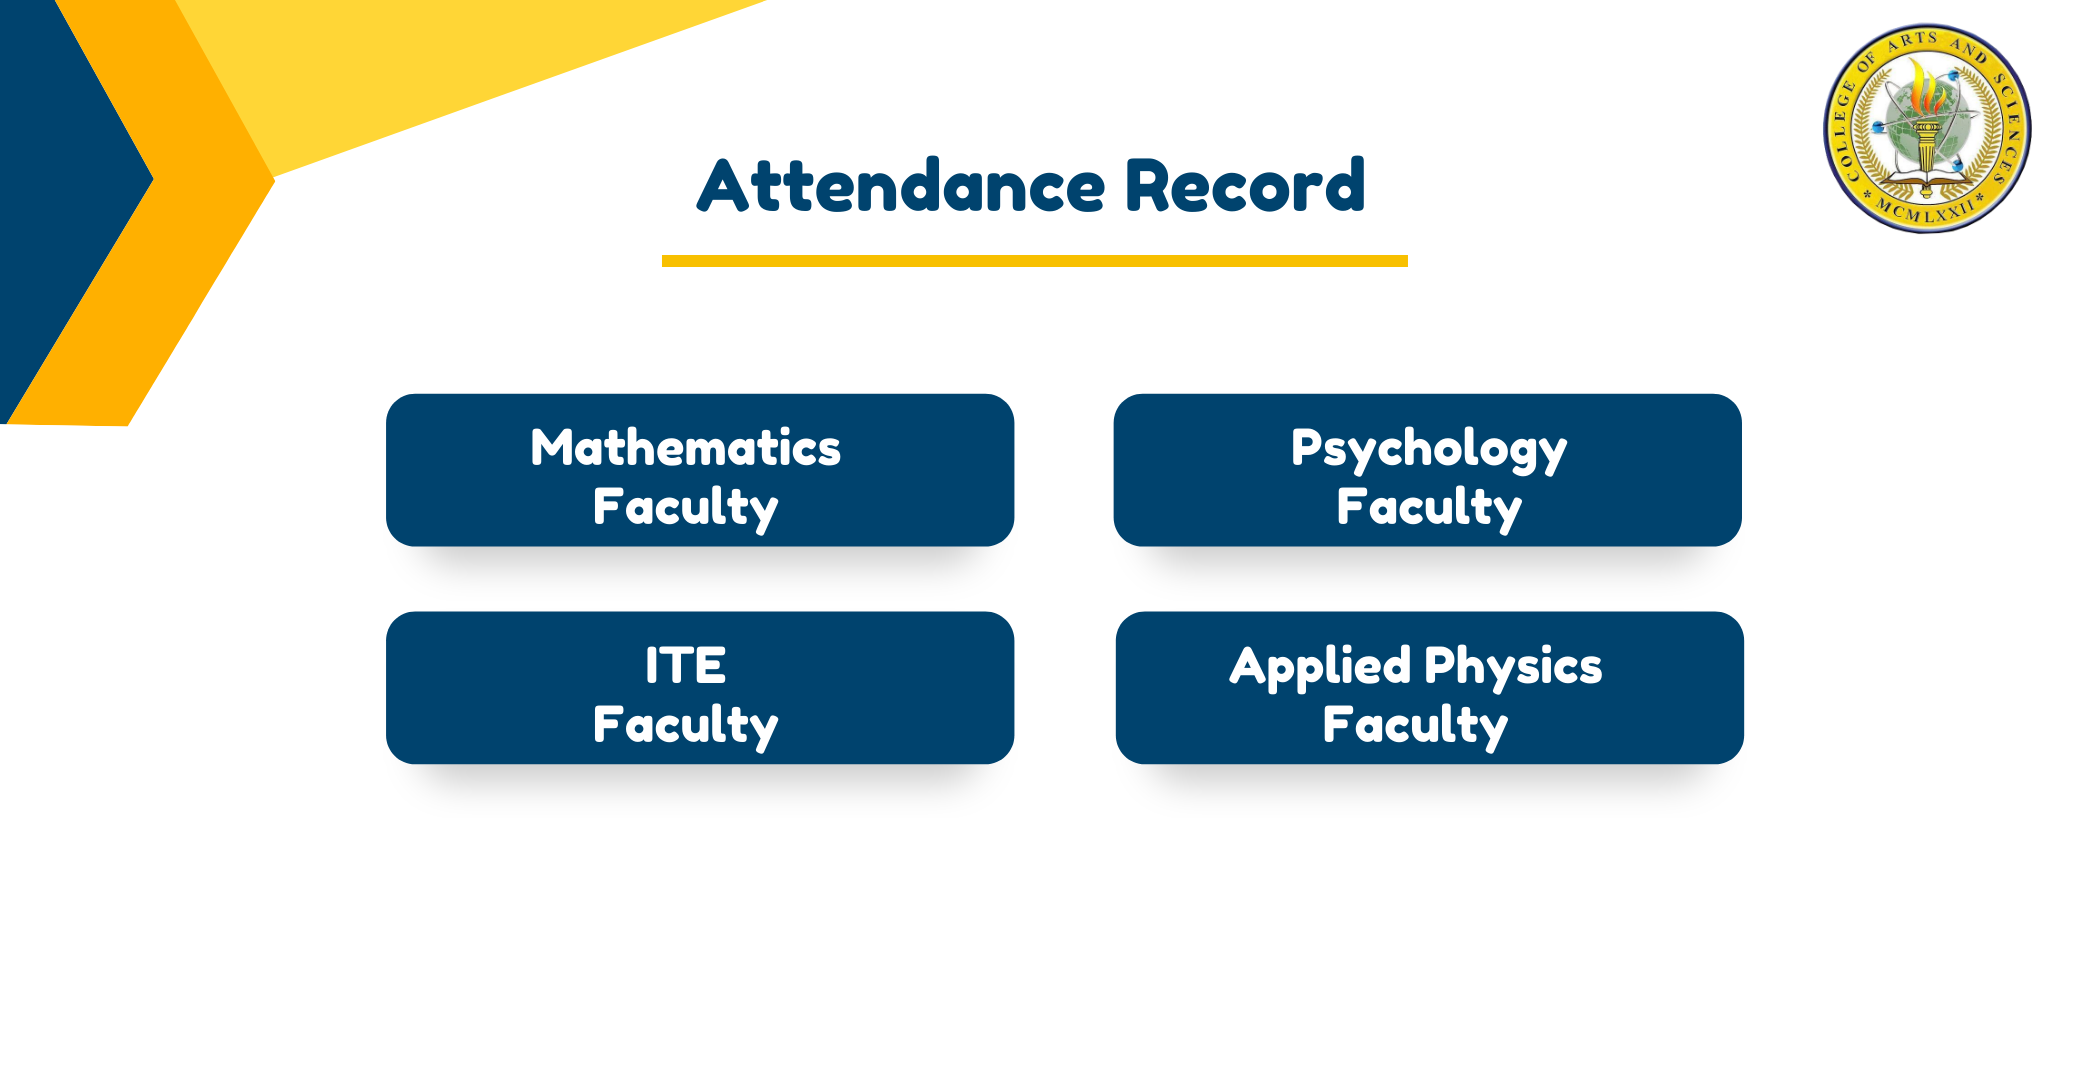
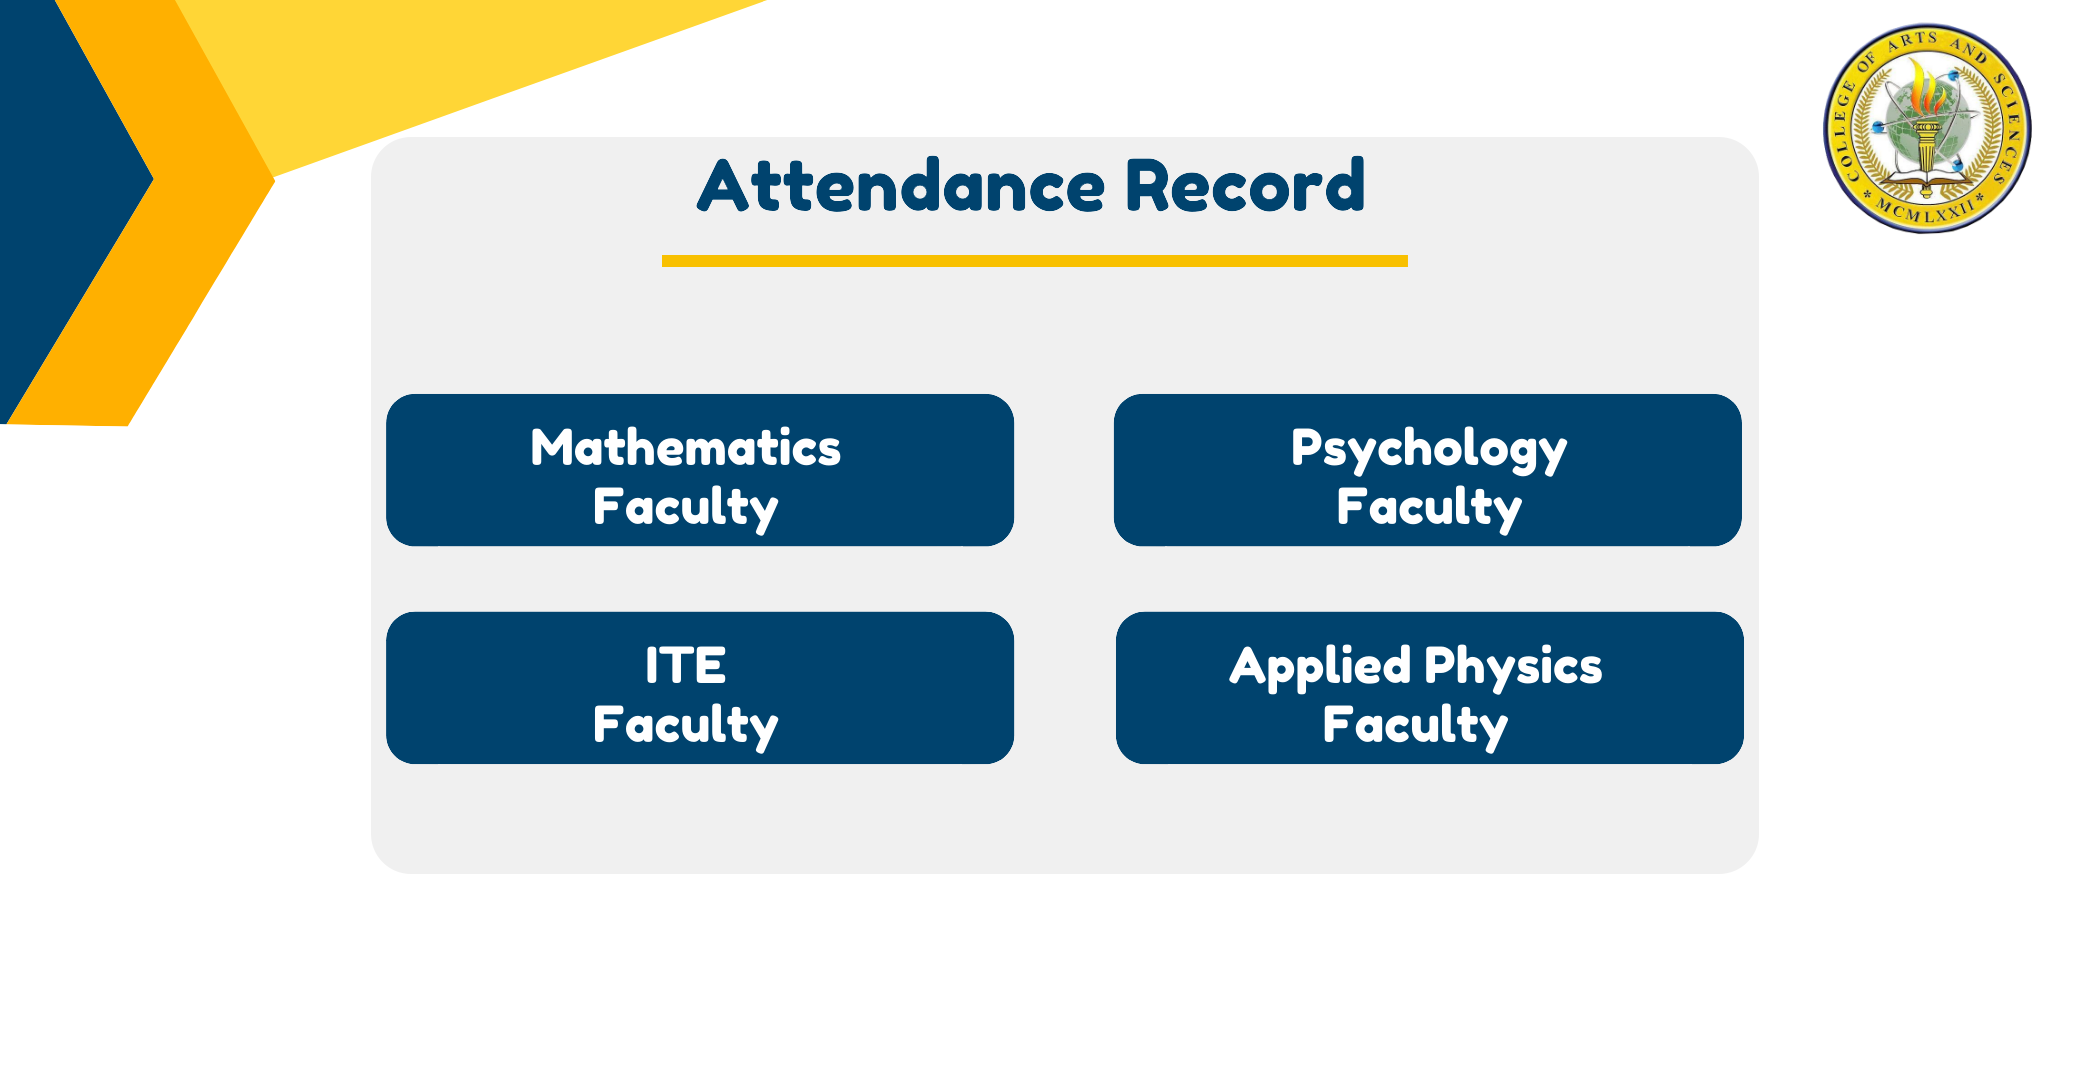
updated

diff --git a/face_recog.py b/face_recog.py
@@ -272,14 +272,14 @@ def new_win():
     attendance_record.att_rec_bg_img_lb.pack()
 
         # Mathematics Faculty Button
-    # math_fac_btn = PhotoImage(file = "pic/math_faculty.png")
-    # att_rec_button_math_fac = customtkinter.CTkButton(master=attendance_record,image=math_fac_btn, text="" ,
-    #                                             corner_radius=20,bg='#ffffff', fg_color="#00436e",hover_color="#006699", command=lambda: show_frame(page2))
-    # att_rec_button_math_fac.place(x=254, y=254, height=99,width=413)
+    math_fac_btn = PhotoImage(file = "pic/math_faculty.png")
+    att_rec_button_math_fac = customtkinter.CTkButton(master=attendance_record,image=math_fac_btn, text="" ,
+                                                corner_radius=20,bg='#ffffff', fg_color="#00436e",hover_color="#006699", command=lambda: show_frame(page2))
+    att_rec_button_math_fac.place(x=254, y=254, height=99,width=413)
 
-    math_fac_btn = PhotoImage(file = "pic/btn_math_faculty.png")
-    att_rec_button_math_fac = Button(attendance_record,image=math_fac_btn, borderwidth=0, bg='#ffffff',command=lambda: show_frame(page2))
-    att_rec_button_math_fac.place(x=254, y=254)
+    # math_fac_btn = PhotoImage(file = "pic/btn_math_faculty.png")
+    # att_rec_button_math_fac = Button(attendance_record,image=math_fac_btn, borderwidth=0, bg='#ffffff',command=lambda: show_frame(page2))
+    # att_rec_button_math_fac.place(x=254, y=254)
     
     main_window.mainloop()
 
